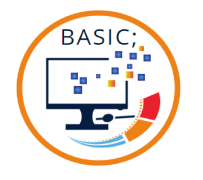
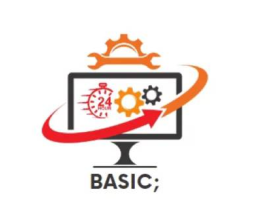
Replaced Getting Started

diff --git a/lib/Pages/getting_started.dart b/lib/Pages/getting_started.dart
@@ -20,8 +20,8 @@ class GettingStartedPage extends StatelessWidget {
                 children: [
                   const SizedBox(height: 96),
                   Container(
-                    width: 150,
-                    height: 150,
+                    width: 170,
+                    height: 170,
                     decoration: const BoxDecoration(
                       image: DecorationImage(
                         image: AssetImage('assets/images/getting_started.png'),
@@ -29,15 +29,23 @@ class GettingStartedPage extends StatelessWidget {
                       ),
                     ),
                   ),
-                  const SizedBox(height: 48),
+                  const SizedBox(height: 32),
                   const Text(
                     'Welcome to Basic',
-                    style: TextStyle(fontSize: 24, fontWeight: FontWeight.bold),
+                    style: TextStyle(
+                      fontSize: 24,
+                      fontWeight: FontWeight.bold,
+                      color: Color.fromARGB(255, 90, 96, 179),
+                    ),
                   ),
                   const SizedBox(height: 24),
-                  const Text(
-                    'Basic; your guide on learning Programming Languages',
-                    style: TextStyle(fontSize: 14),
+                  const Padding(
+                    padding: EdgeInsets.all(20.0),
+                    child: Text(
+                      '"The art of programming is the skill of controlling complexity." - Marijn Haverbeke',
+                      style: TextStyle(fontSize: 15),
+                      textAlign: TextAlign.center,
+                    ),
                   ),
                   const SizedBox(height: 120),
                   AuthButton(
